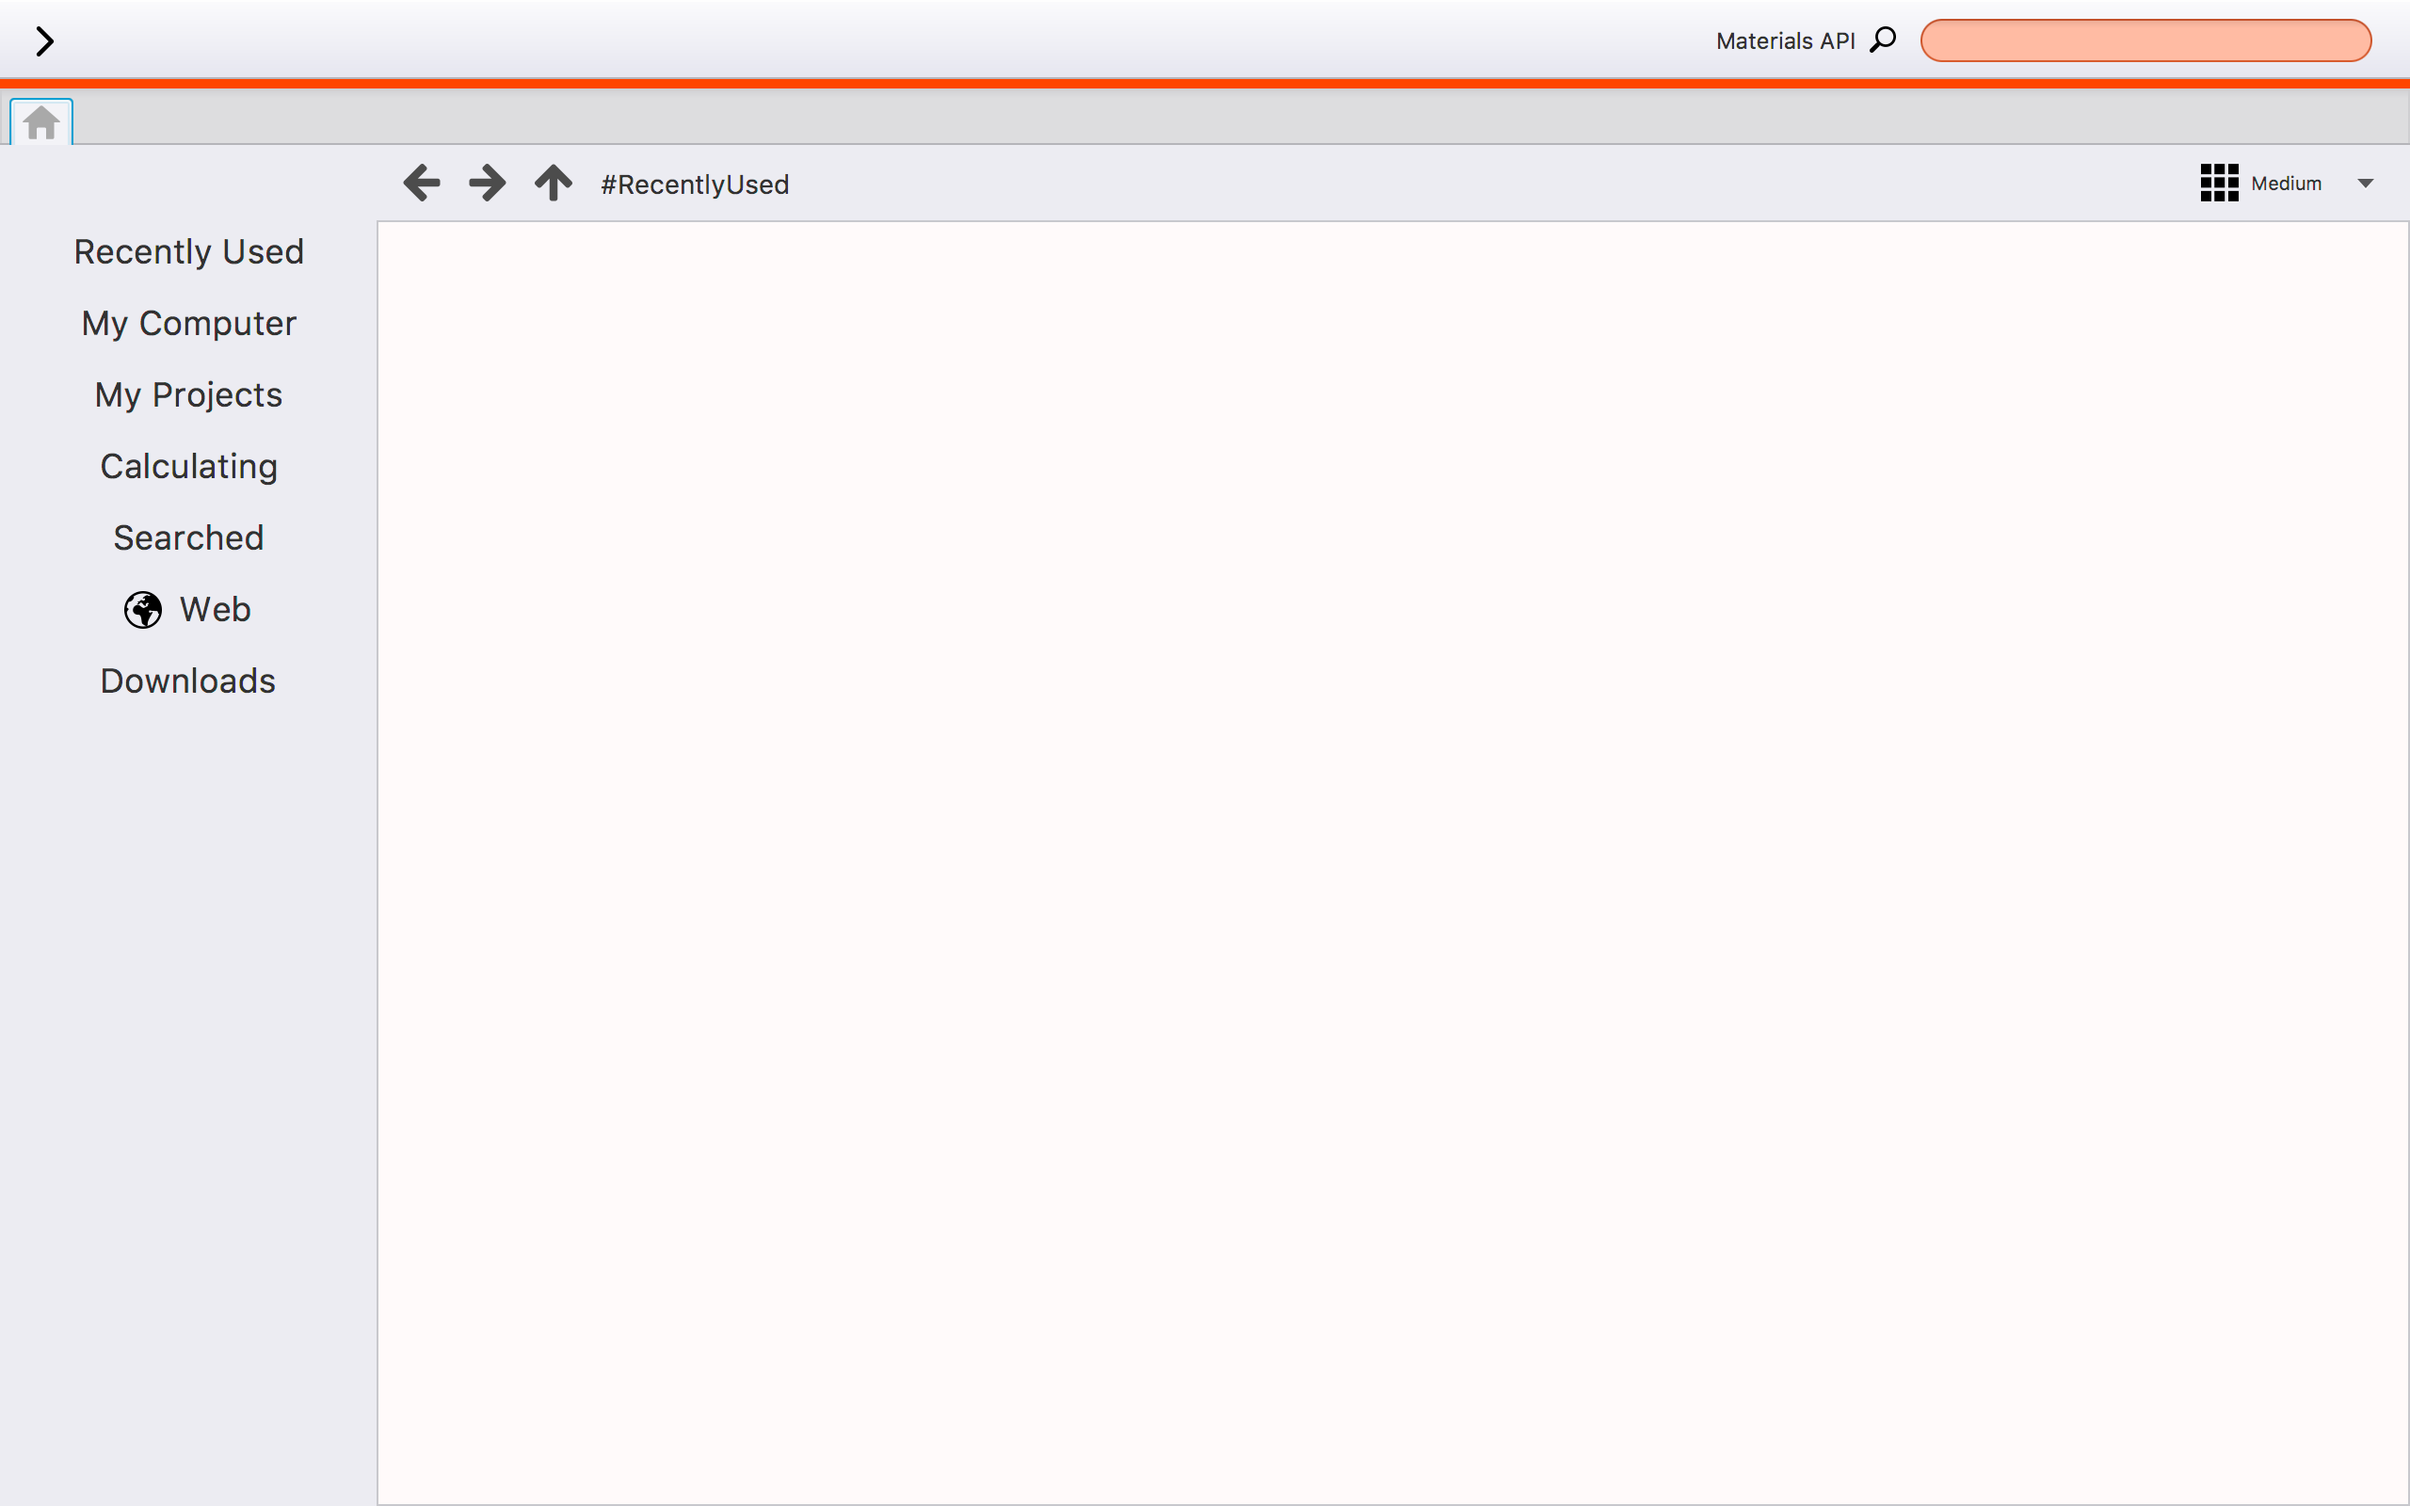
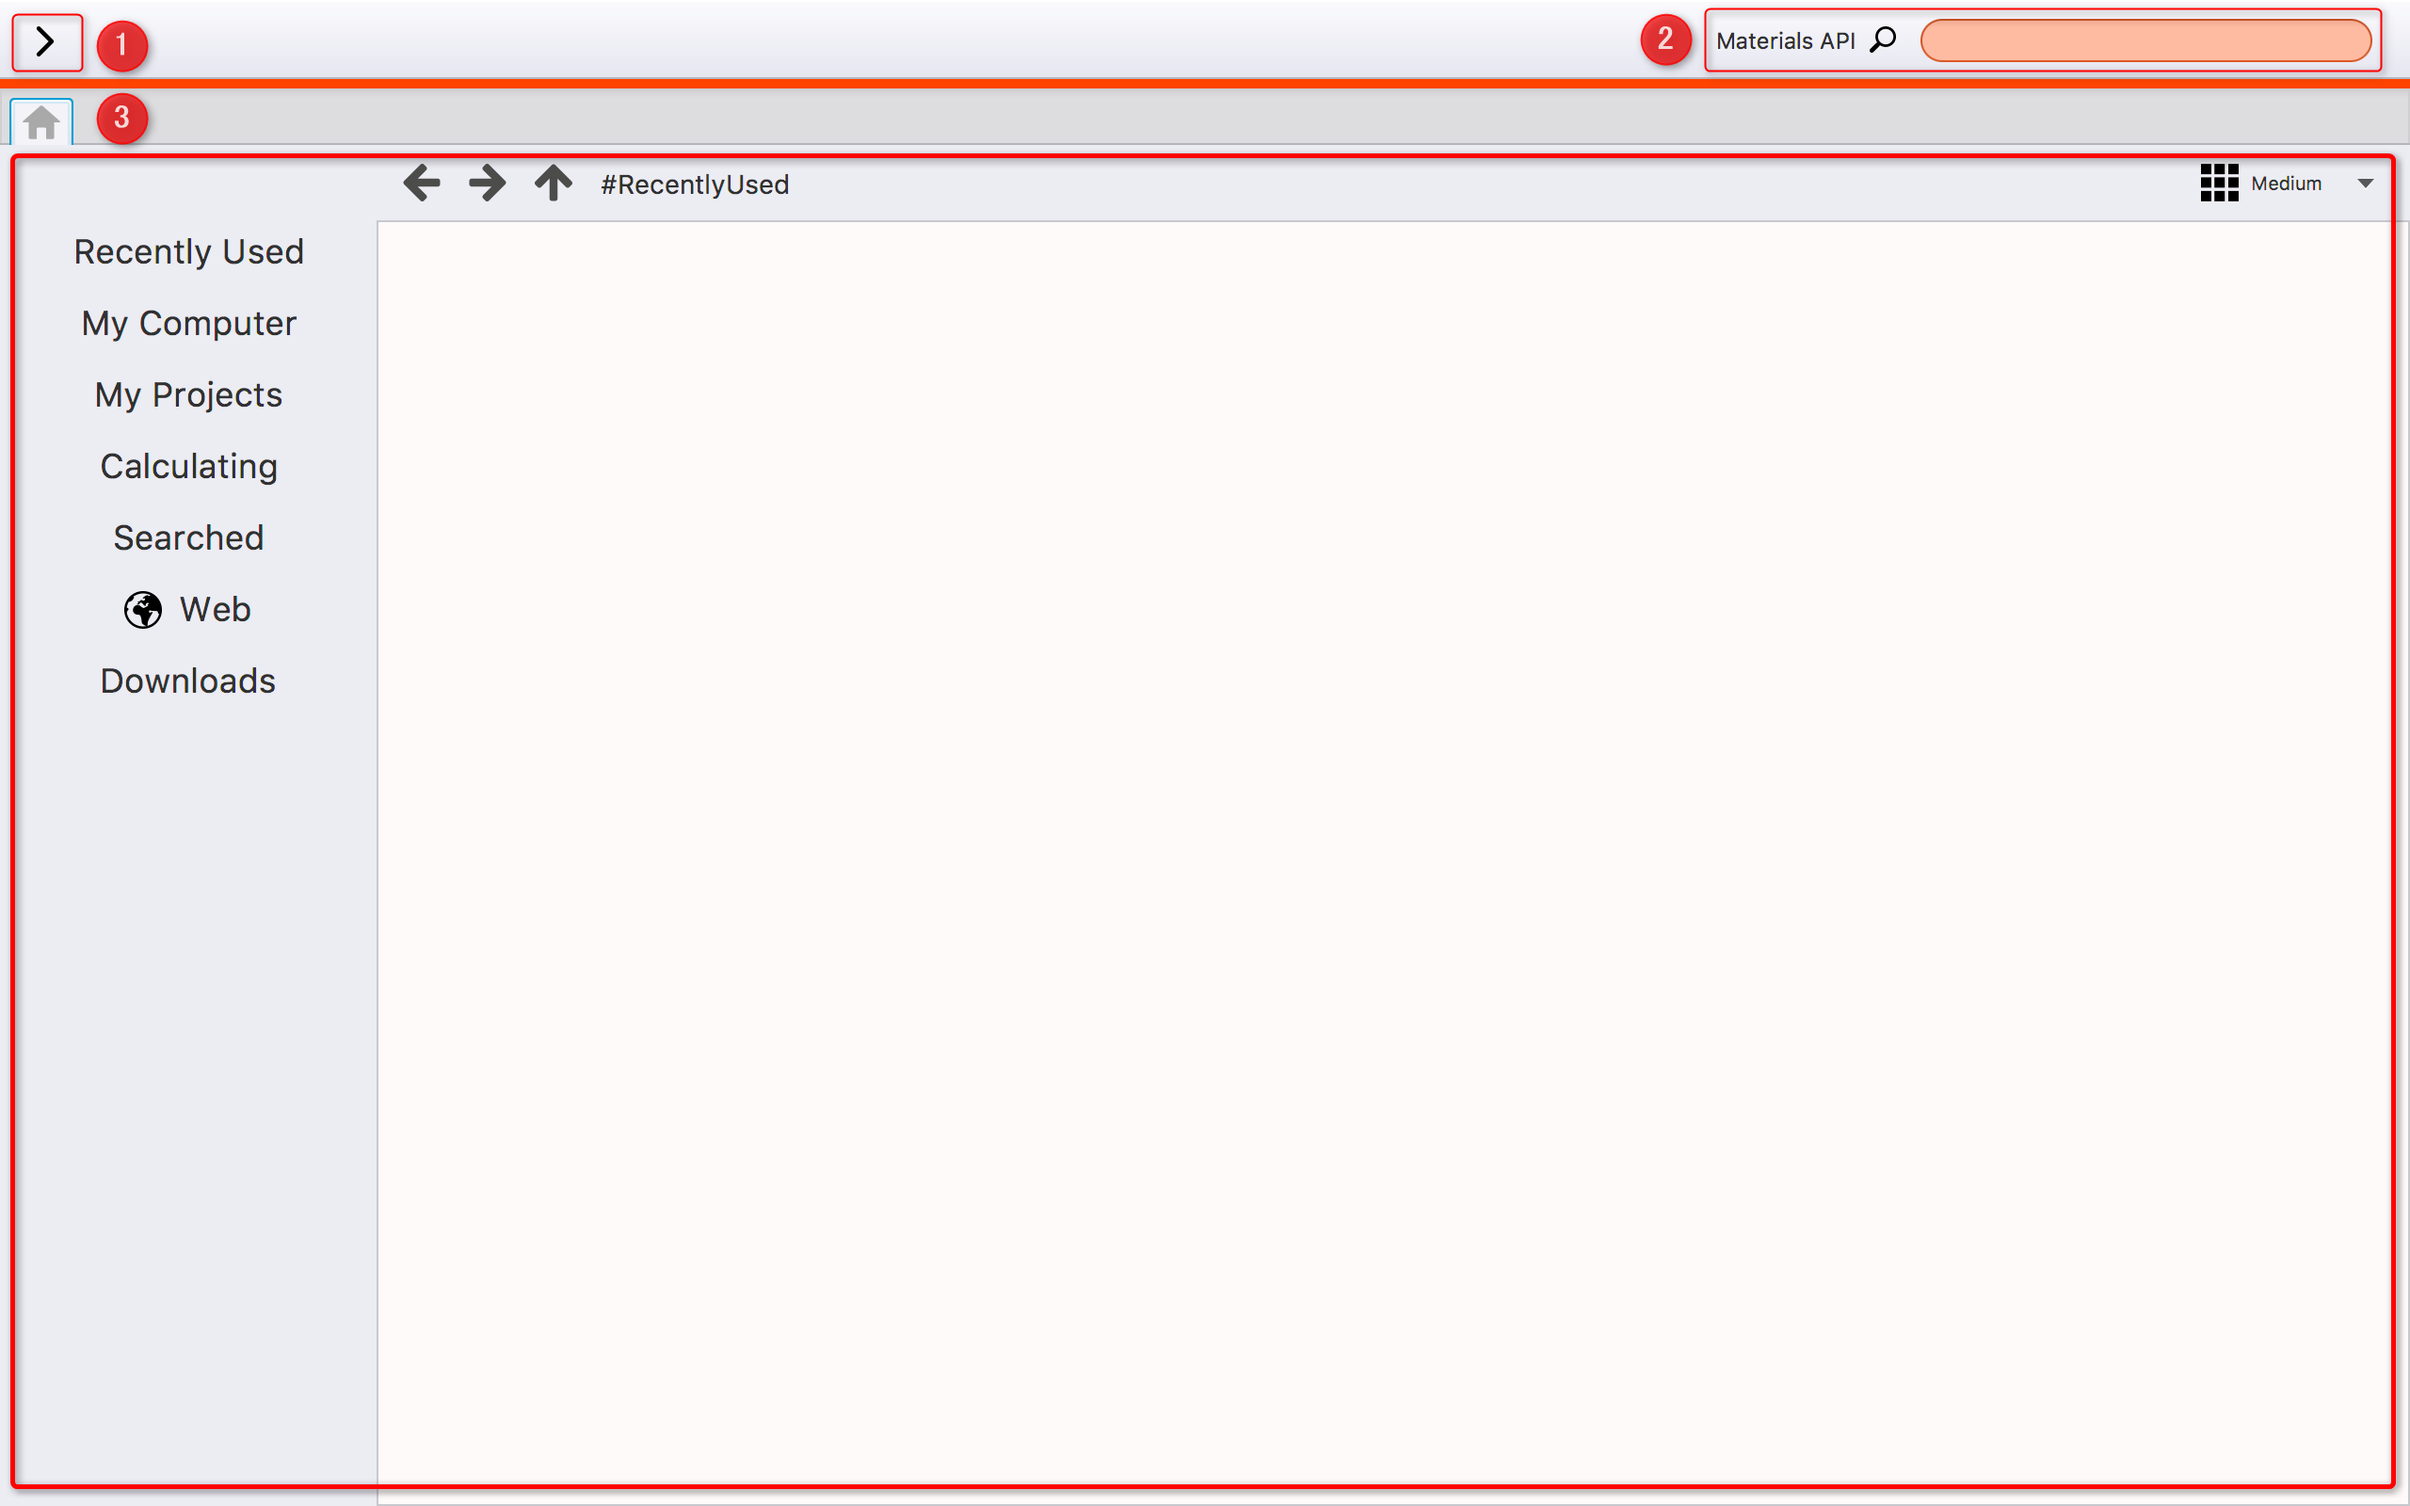
add API

Changed region(s): [[0.0, 0.0, 1.0, 1.0], [0.6562, 0.0, 0.7188, 0.0625]]

diff --git a/docs/source/usage/materialsAPI.rst b/docs/source/usage/materialsAPI.rst
@@ -5,7 +5,14 @@ BURAI can get crystal structure by using `Materials API <https://materialsprojec
 
 The element symbol is entered in the Materials API bar, then this system search the crystal structure which has entered the element.
 
-If you want to search the Fe-Cr system, you should enter "Fe Cr" in the Materials API barr as indicated in the following figure.
+If users want to search the Fe-Cr system, users should enter "Fe Cr" or "Fe-Cr" in the Materials API barr as indicated in the following figure.
+
+.. image:: ../../img/imgMaterialProject_search00.png
+   :scale: 30 %
+   :align: center
+
+BURAI platform searches the crystal structure that Fe and/or Cr is included.
+If successful, the list is showed.
 
 .. image:: ../../img/imgMaterialProject_search.png
    :scale: 30 %
